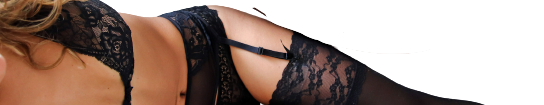
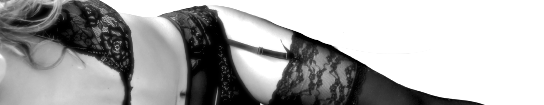
jnjlnl

diff --git a/static/index.min0eea.css b/static/index.min0eea.css
@@ -5026,9 +5026,9 @@ body {
   text-align: center;
 }
 .home-bg {
-  height: 80vh;
-  background-image: url("/assets/imgs/home/newhome012.png");
-  background-size: 100vw auto;
+  height: 100vh;
+  background-image: url("/assets/imgs/home/homebg.png");
+  background-size: 40vw auto;
   background-position: bottom right;
   background-position: fixed;
   background-repeat: no-repeat;

diff --git a/index.html b/index.html
@@ -414,7 +414,7 @@ class="required">
   <div class="drawer-backdrop"></div>
 </section>
     <main class="main"style="">
-<article class="main-article" style="height: 80vh; padding-top: 20vh">
+<article class="main-article home-bg" style="height: 80vh; padding-top: 20vh">
   <h1>
     Welcome to a
     <br />
